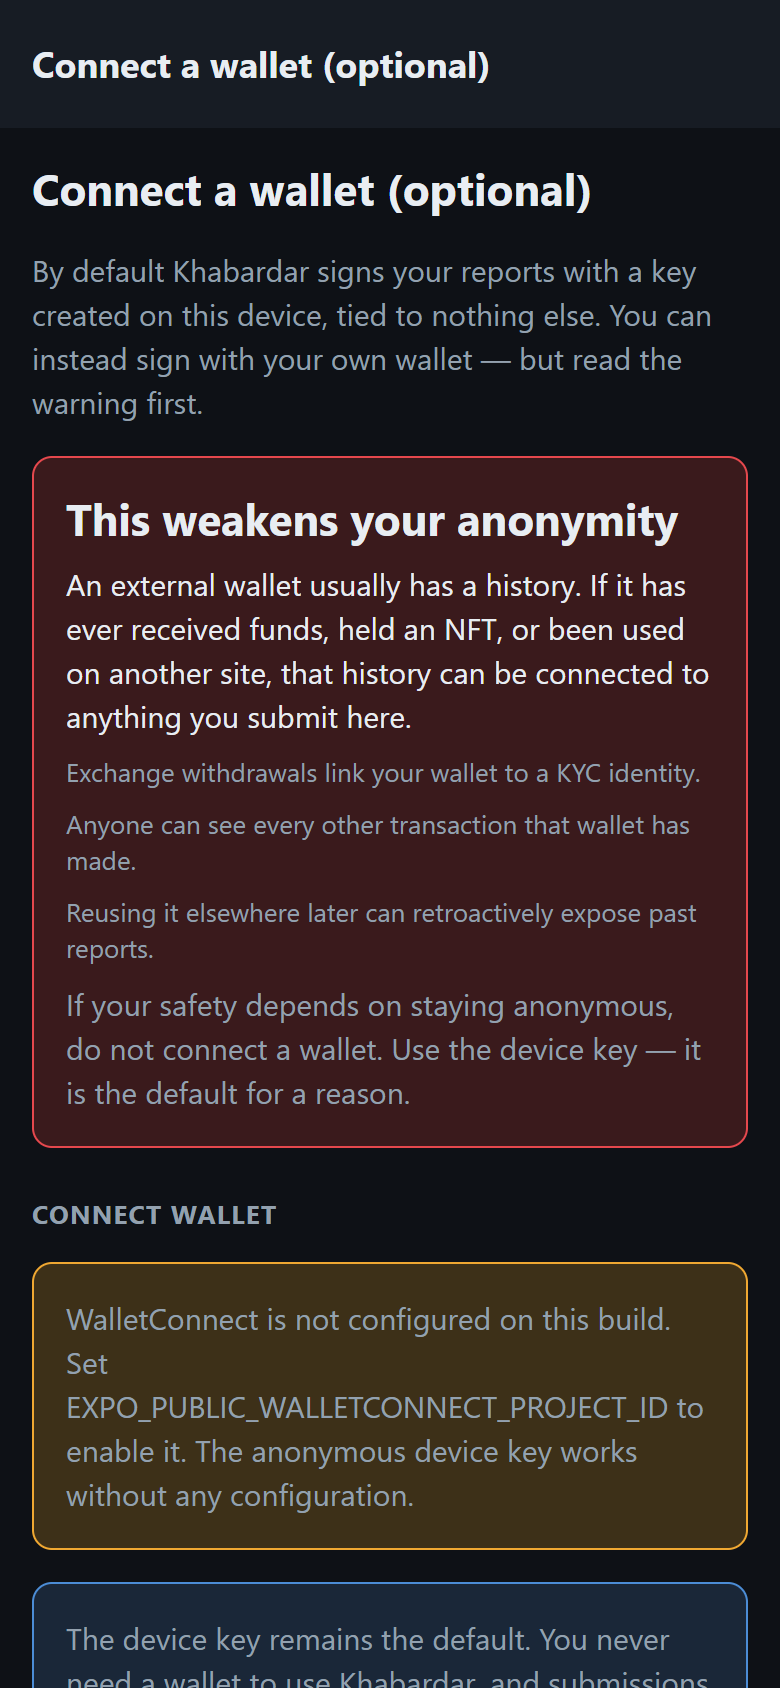
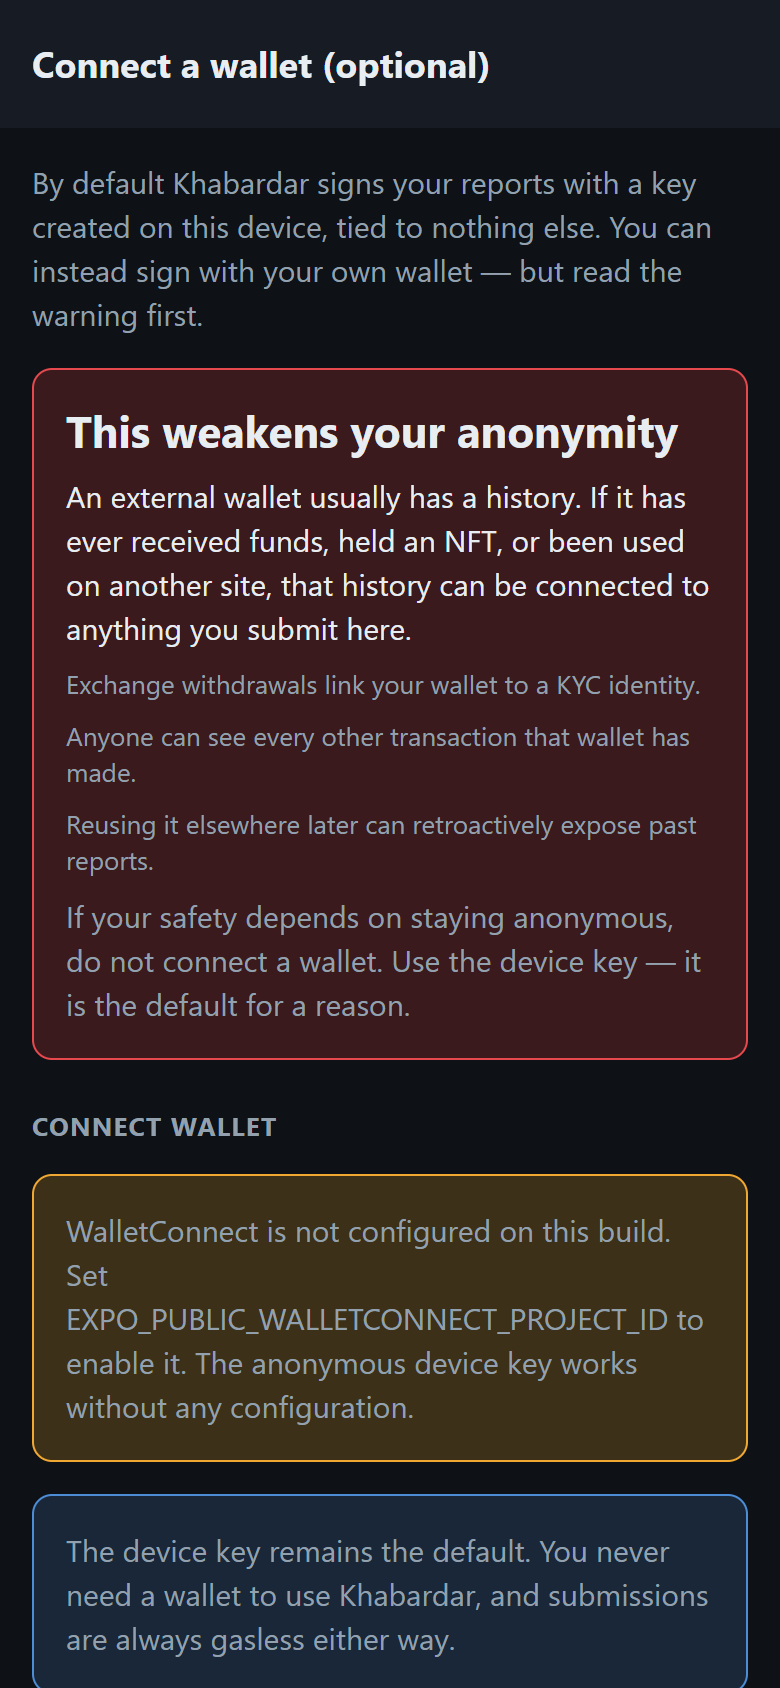
Drop repeated screen titles and pluralise corroborations (#102)
Four screens no longer repeat their header title; corroboration counts are pluralised in EN and HI. Closes #101.

diff --git a/apps/mobile/app/network.tsx b/apps/mobile/app/network.tsx
@@ -18,7 +18,7 @@ import {
   type TorAvailability,
 } from "../src/net/torTransport";
 import type { TorStatus } from "expo-tor";
-import { Badge, Body, Button, Card, Mono, Screen, Title } from "../src/ui";
+import { Badge, Body, Button, Card, Mono, Screen } from "../src/ui";
 import { colors, radius, spacing } from "../src/theme";
 import { t } from "../src/i18n";
 
@@ -89,7 +89,6 @@ export default function NetworkScreen() {
 
   return (
     <Screen>
-      <Title>{t("net.title")}</Title>
 
       <Card style={{ borderColor: probe.verified ? colors.success : colors.danger }}>
         <Body dim>{t("net.transport")}</Body>

diff --git a/apps/mobile/app/stealth.tsx b/apps/mobile/app/stealth.tsx
@@ -13,7 +13,7 @@ import {
   StealthPinRejected,
   type StealthConfig,
 } from "../src/stealth";
-import { Body, Button, Card, Screen, Title, toggleState } from "../src/ui";
+import { Body, Button, Card, Screen, toggleState } from "../src/ui";
 import { colors, radius, spacing } from "../src/theme";
 import { t } from "../src/i18n";
 
@@ -124,7 +124,6 @@ export default function StealthScreen() {
 
   return (
     <Screen>
-      <Title>{t("stealth.title")}</Title>
 
       <Card style={{ borderColor: colors.info }}>
         <Body dim>{t("stealth.intro")}</Body>

diff --git a/apps/mobile/app/recovery.tsx b/apps/mobile/app/recovery.tsx
@@ -13,7 +13,6 @@ import {
   Notice,
   Screen,
   SectionHeader,
-  Title,
 } from "../src/ui";
 import { colors, radius, spacing } from "../src/theme";
 import { t } from "../src/i18n";
@@ -60,7 +59,6 @@ export default function RecoveryScreen() {
 
   return (
     <Screen>
-      <Title>{t("recovery.title")}</Title>
       <Body dim>{t("recovery.explainer")}</Body>
 
       <Notice tone="danger">{t("recovery.warning")}</Notice>

diff --git a/apps/mobile/app/wallet.tsx b/apps/mobile/app/wallet.tsx
@@ -66,7 +66,6 @@ export default function WalletScreen() {
 
   return (
     <Screen>
-      <Title>{t("wallet.title")}</Title>
       <Body dim>{t("wallet.intro")}</Body>
 
       {/* Warning stays ABOVE any connect control — anonymity trade-off, not a convenience toggle. */}
